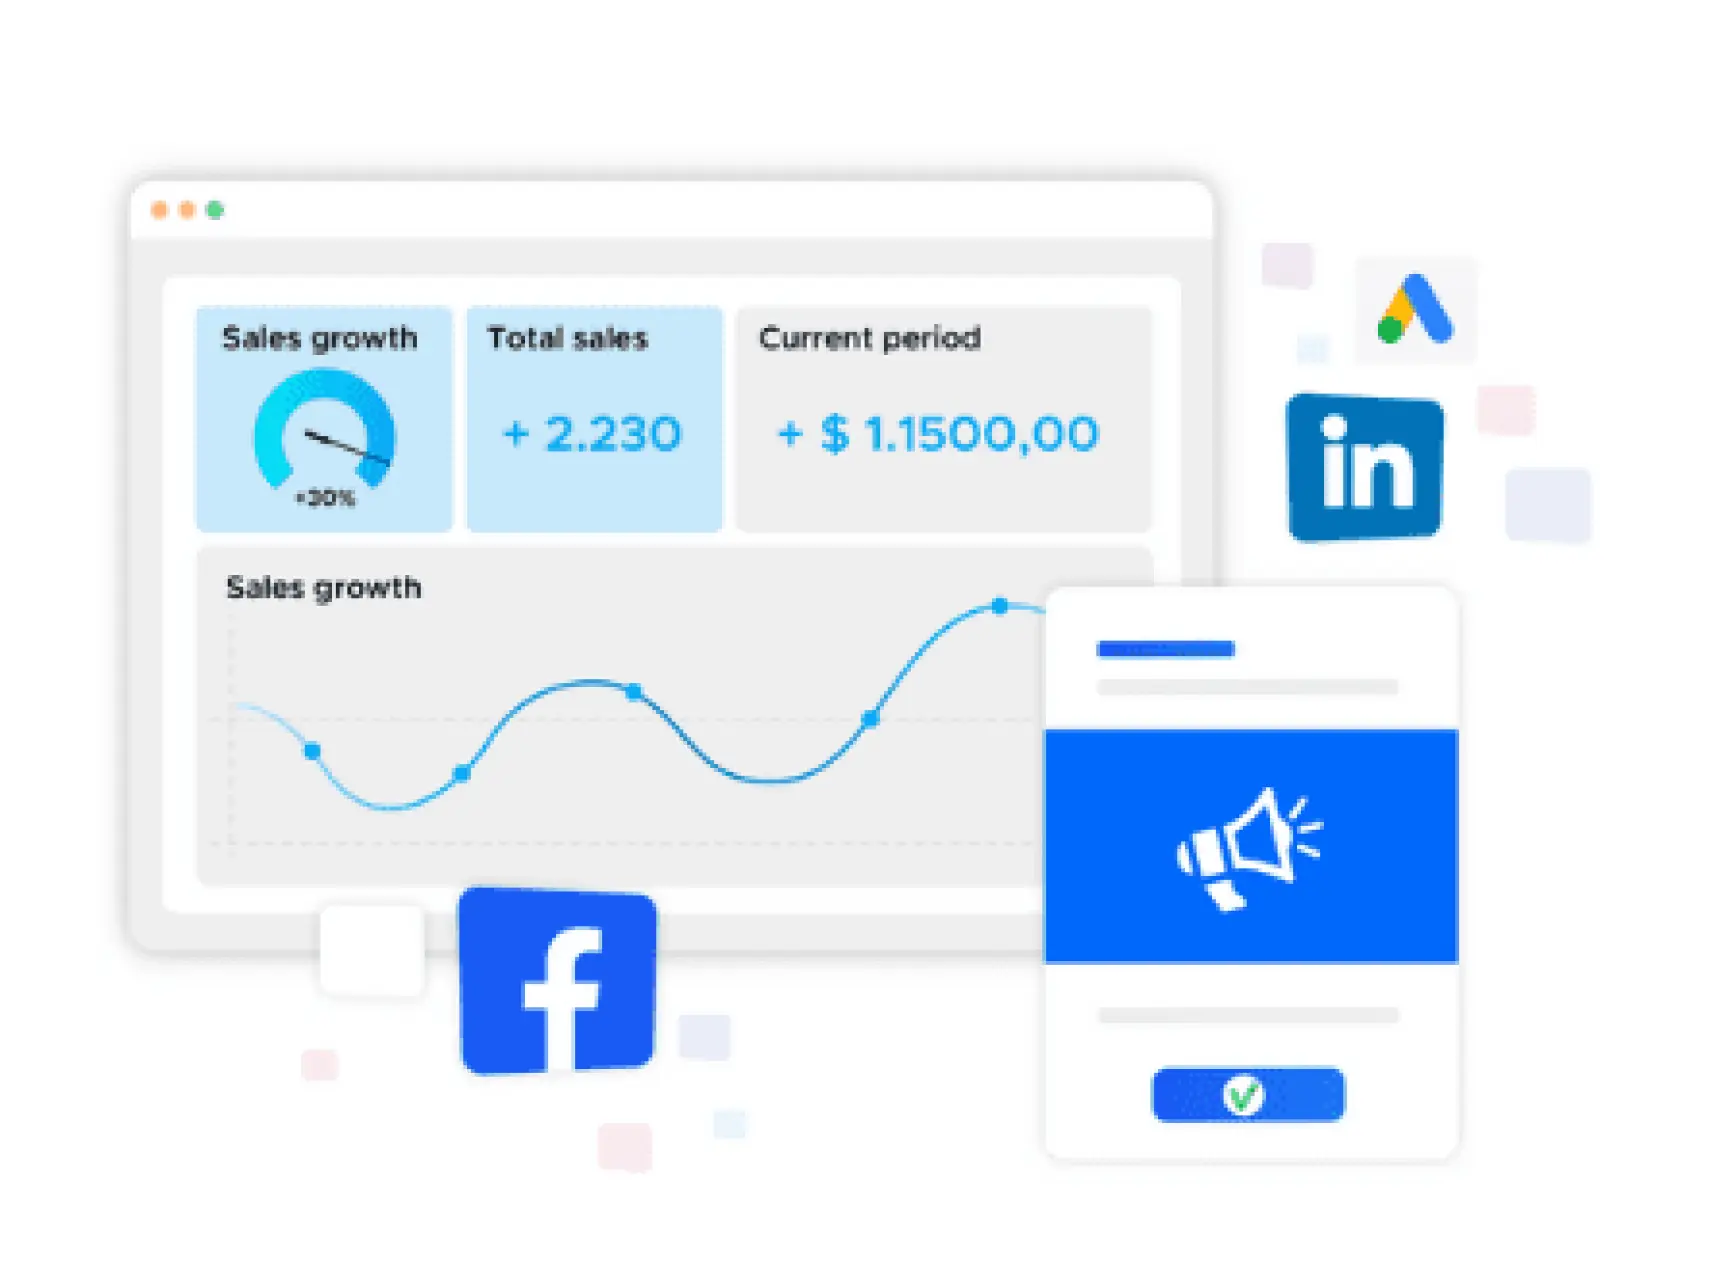
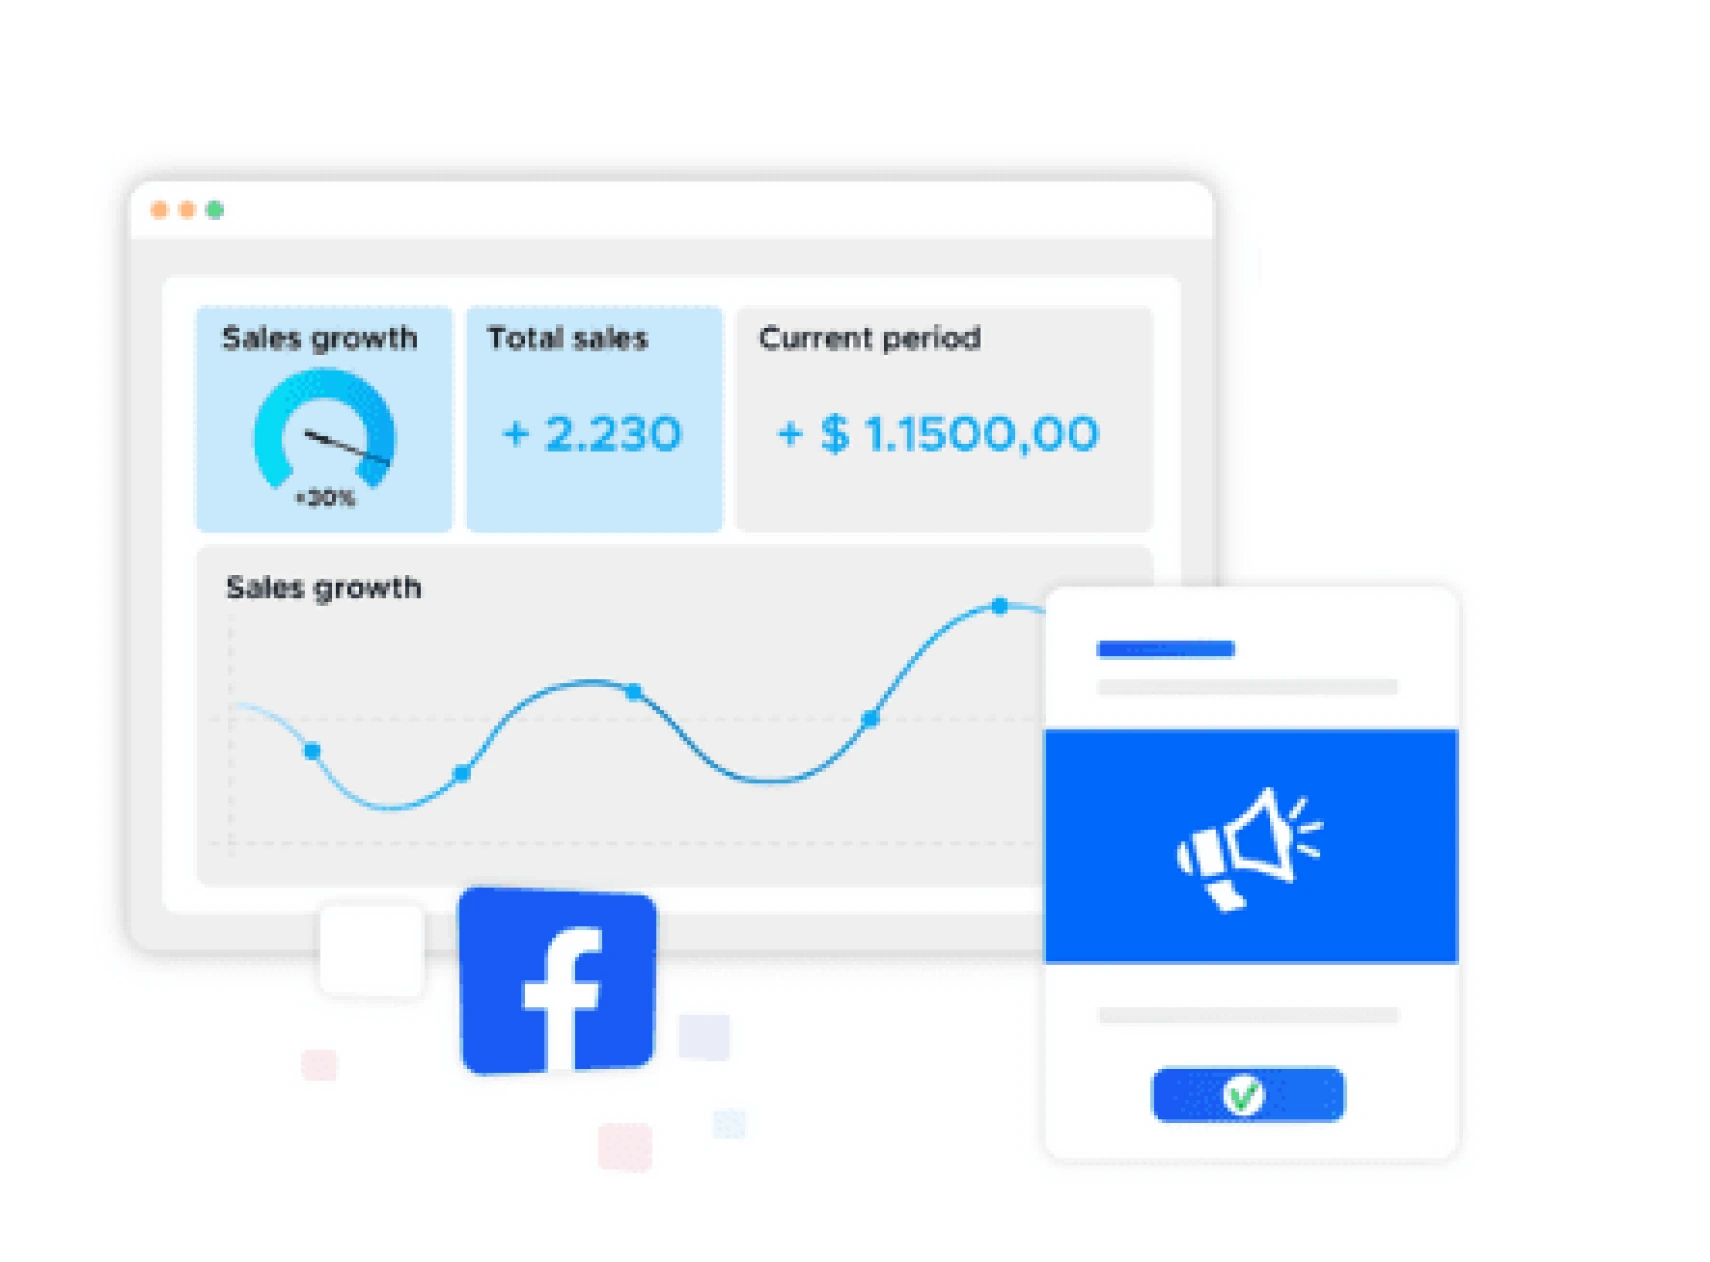
change meta img

Changed region(s): [[0.7439, 0.309, 0.8678, 0.4326], [0.8058, 0.2163, 0.8678, 0.2781]]

diff --git a/index.html b/index.html
@@ -24,7 +24,7 @@
         <meta property="og:url" content="https://main-campaign-pink.vercel.app/" />
         <meta property="og:title" content="Campaign page" />
         <meta property="og:description" content=" The Most Powerful Offline Lead Conversion Data for your Businesses" />
-        <meta property="og:image" content="/meta-img.png" />
+        <meta property="og:image" content="/meta-img.webp" />
 
         <!-- Twitter -->
         <meta property="twitter:card" content="summary_large_image" />
@@ -32,7 +32,7 @@
         <meta property="twitter:title" content="Campaign page" />
         <meta property="twitter:description"
             content=" The Most Powerful Offline Lead Conversion Data for your Businesses" />
-        <meta property="twitter:image" content="/meta-img.png" />
+        <meta property="twitter:image" content="/meta-img.webp" />
         <!-- Meta Tags Generated with https://metatags.io -->
         <script>
             tailwind.config = {
@@ -1336,7 +1336,7 @@
                     </div>
                     <div class="lg:w-6/12">
                         <div>
-                            <img src="assets/img/facebook-user.png" alt="facebook-user" class="pointer-events-none"
+                            <img src="assets/img/webp/facebook-user.webp" alt="facebook-user" class="pointer-events-none"
                                 data-aos="zoom-in-up" data-aos-duration="1200">
                         </div>
                     </div>
